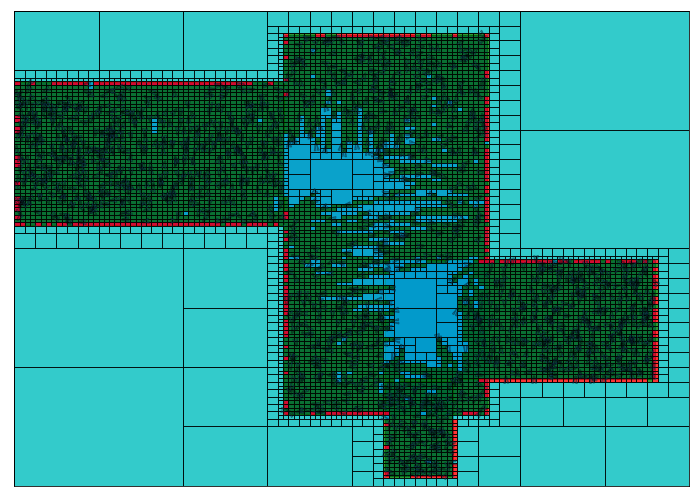
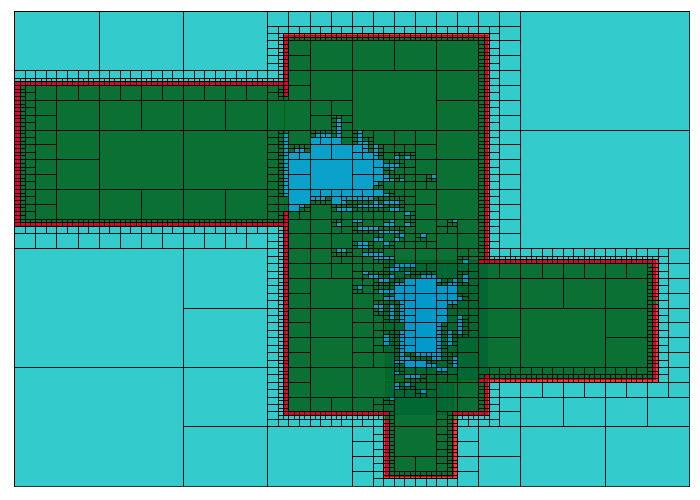
Increase squares

Changed region(s): [[0.0, 0.06, 0.96, 0.96]]

diff --git a/quadtree.py b/quadtree.py
@@ -3,6 +3,7 @@
 import numpy as np
 import matplotlib.patches as patches
 
+
 class Point:
     """A point located at (x,y) in 2D space.
 
@@ -21,13 +22,14 @@ class Point:
         return Point(self.x - o.x, self.y - o.y)
 
     def __mul__(self, o):
-        return Point(self.x*o, self.y*o)
+        return Point(self.x * o, self.y * o)
 
     def __truediv__(self, o):
-        return Point(self.x/o, self.y/o)
+        return Point(self.x / o, self.y / o)
 
     def __repr__(self):
         return '{}: {}'.format(str((self.x, self.y)), repr(self.payload))
+
     def __str__(self):
         return 'P({:.2f}, {:.2f})'.format(self.x, self.y)
 
@@ -37,6 +39,7 @@ class Point:
         except AttributeError:
             other_x, other_y = other
         return np.hypot(self.x - other_x, self.y - other_y)
+
 
 class Vector:
     def __init__(self, origin: Point, end_point: Point):
@@ -49,26 +52,13 @@ class Vector:
         # ax.scatter(self.end_point.x, self.end_point.y)
 
     def division(self, quadtree):
-        # point = self.origin
-        # length = self.origin.distance_to(self.end_point)
-        rectangle = quadtree.insert(self.origin, "Free") # origin = free
-        end_rectangle = quadtree.insert(self.end_point, "Occupied") #end-point = occupied
-        while rectangle != end_rectangle:
-            Ax = self.origin.x
-            Ay = self.origin.y
-            Bx = self.end_point.x
-            By = self.end_point.y
-            rX = rectangle.w
-            rY = rectangle.h
-            Cy = By + rY / 2 # this line needs to change
-            Cx = (Bx + ((Ax - Bx) / (Ay - By)) * Cy)
-            point = Point(Cx, Cy) + self.dir*0.001
-            rectangle = quadtree.insert(point, "Free")
-            print("Added ("+str(point.x)+", "+str(point.y)+")")
+        point = self.origin
+        length = self.origin.distance_to(self.end_point)
+        for i in range(0, int(length) - 1):
+            quadtree.insert(point, "Free")
+            point = self.origin + self.dir * i
+        quadtree.insert(self.end_point, "Occupied")
 
-        # for i in range(0, int(length) - 1):
-        #     quadtree.insert(point, "Free")
-        #     point = self.origin + self.dir*i
 
 class Rect:
     """A rectangle centred at (cx, cy) with width w and height h."""
@@ -76,18 +66,18 @@ class Rect:
     def __init__(self, cx, cy, w, h, type=None):
         self.cx, self.cy = cx, cy
         self.w, self.h = w, h
-        self.area = w*h
-        self.west_edge, self.east_edge = cx - w/2, cx + w/2
-        self.north_edge, self.south_edge = cy - h/2, cy + h/2
+        self.area = w * h
+        self.west_edge, self.east_edge = cx - w / 2, cx + w / 2
+        self.north_edge, self.south_edge = cy - h / 2, cy + h / 2
         self.type = type
 
     def __repr__(self):
         return str((self.west_edge, self.east_edge, self.north_edge,
-                self.south_edge))
+                    self.south_edge))
 
     def __str__(self):
         return '({:.2f}, {:.2f}, {:.2f}, {:.2f})'.format(self.west_edge,
-                    self.north_edge, self.east_edge, self.south_edge)
+                                                         self.north_edge, self.east_edge, self.south_edge)
 
     def contains(self, point):
         """Is point (a Point object or (x,y) tuple) inside this Rect?"""
@@ -98,7 +88,7 @@ class Rect:
             point_x, point_y = point
 
         return (point_x >= self.west_edge and
-                point_x <  self.east_edge and
+                point_x < self.east_edge and
                 point_y >= self.north_edge and
                 point_y < self.south_edge)
 
@@ -110,13 +100,13 @@ class Rect:
                     other.south_edge < self.north_edge)
 
     def _get_color(self):
-        if (self.type == None): # Unknown
+        if (self.type == None):  # Unknown
             return 'c'
         elif (self.type == "Free"):
             return 'g'
         elif (self.type == "Occupied"):  # Occupied
             return 'r'
-        elif (self.type == "Divided"): # Divided rect
+        elif (self.type == "Divided"):  # Divided rect
             return 'none'
         else:
             return 'b'
@@ -125,13 +115,15 @@ class Rect:
         x1, y1 = self.west_edge, self.north_edge
         x2, y2 = self.east_edge, self.south_edge
 
-        rect = patches.Rectangle((x1, y1), x2-x1, y2-y1, linewidth=1, edgecolor='k', facecolor=self._get_color(), alpha=0.8)
+        rect = patches.Rectangle((x1, y1), x2 - x1, y2 - y1, linewidth=1, edgecolor='k', facecolor=self._get_color(),
+                                 alpha=0.8)
         # ax.plot([x1,x2,x2,x1,x1],[y1,y1,y2,y2,y1], c=c, lw=lw, **kwargs)
         if self.type == "room":
-            rect = patches.Rectangle((x1, y1), x2-x1, y2-y1, linewidth=2, edgecolor='k', facecolor='none', alpha=1)
+            rect = patches.Rectangle((x1, y1), x2 - x1, y2 - y1, linewidth=2, edgecolor='k', facecolor='none', alpha=1)
         # rect = patches.Rectangle((x1, y1), x2-x1, y2-y1, linewidth=1, edgecolor='k', alpha=0.1)
 
         ax.add_patch(rect)
+
 
 class QuadTree:
     """A class implementing a quadtree."""
@@ -161,8 +153,8 @@ class QuadTree:
         if not self.divided:
             return s
         return s + '\n' + '\n'.join([
-                sp + 'nw: ' + str(self.nw), sp + 'ne: ' + str(self.ne),
-                sp + 'se: ' + str(self.se), sp + 'sw: ' + str(self.sw)])
+            sp + 'nw: ' + str(self.nw), sp + 'ne: ' + str(self.ne),
+            sp + 'se: ' + str(self.se), sp + 'sw: ' + str(self.sw)])
 
     def divide(self):
         """Divide (branch) this node by spawning four children nodes."""
@@ -172,30 +164,34 @@ class QuadTree:
         # The boundaries of the four children nodes are "northwest",
         # "northeast", "southeast" and "southwest" quadrants within the
         # boundary of the current node.
-        self.nw = QuadTree(Rect(cx - w/2, cy - h/2, w, h),
-                                    self.max_points, self.depth + 1)
-        self.ne = QuadTree(Rect(cx + w/2, cy - h/2, w, h),
-                                    self.max_points, self.depth + 1)
-        self.se = QuadTree(Rect(cx + w/2, cy + h/2, w, h),
-                                    self.max_points, self.depth + 1)
-        self.sw = QuadTree(Rect(cx - w/2, cy + h/2, w, h),
-                                    self.max_points, self.depth + 1)
+        self.nw = QuadTree(Rect(cx - w / 2, cy - h / 2, w, h),
+                           self.max_points, self.depth + 1)
+        self.ne = QuadTree(Rect(cx + w / 2, cy - h / 2, w, h),
+                           self.max_points, self.depth + 1)
+        self.se = QuadTree(Rect(cx + w / 2, cy + h / 2, w, h),
+                           self.max_points, self.depth + 1)
+        self.sw = QuadTree(Rect(cx - w / 2, cy + h / 2, w, h),
+                           self.max_points, self.depth + 1)
         self.divided = True
 
     def insert(self, point, type="Occupied"):
         """Try to insert Point point into this QuadTree."""
 
-        if self.boundary.type == type:
-            return self.boundary
-
         if not self.boundary.contains(point):
             # The point does not lie inside boundary: bail.
             return False
-        if len(self.points) < self.max_points or self.depth == 10:
+
+        # Don't add a new point to this rectangle
+        if self.boundary.type == type:
+            return True
+
+        if len(self.points) < self.max_points or self.depth == 7:
             # There's room for our point without dividing the QuadTree.
             self.points.append(point)
-            self.boundary.type = type
-            return self.boundary
+
+            # Don't overwrite an occupied cell with a free cell
+            if self.boundary.type != "Occupied": self.boundary.type = type
+            return True
 
         # No room: divide if necessary, then try the sub-quads.
         if not self.divided:
@@ -232,7 +228,6 @@ class QuadTree:
                 boundary.type = "Free"
         return found_points
 
-
     def query_circle(self, boundary, centre, radius, found_points):
         """Find the points in the quadtree that lie within radius of centre.
 
@@ -265,16 +260,30 @@ class QuadTree:
         """Find the points in the quadtree that lie within radius of centre."""
 
         # First find the square that bounds the search circle as a Rect object.
-        boundary = Rect(*centre, 2*radius, 2*radius)
+        boundary = Rect(*centre, 2 * radius, 2 * radius)
         return self.query_circle(boundary, centre, radius, found_points)
 
+    def increase_squares(self):
+        if self.divided:
+            # Recursion, first goes to deepest layer and then keeps going up
+
+            # Can't immediately do if statement: Will result in early exit
+            types = {self.nw.increase_squares(), self.ne.increase_squares(),
+                     self.se.increase_squares(), self.sw.increase_squares()}
+            if len(types) == 1:
+                self.boundary.type = types.pop()
+
+                if self.boundary.type != "Divided": self.divided = False
+        # Check if all squares have same type,
+        # Check if all squares have the same type (not divided)
+        return self.boundary.type
 
     def __len__(self):
         """Return the number of points in the quadtree."""
 
         npoints = len(self.points)
         if self.divided:
-            npoints += len(self.nw)+len(self.ne)+len(self.se)+len(self.sw)
+            npoints += len(self.nw) + len(self.ne) + len(self.se) + len(self.sw)
         return npoints
 
     def draw(self, ax):

diff --git a/case1.py b/case1.py
@@ -10,7 +10,7 @@ random.seed(123)
 random.random()
 width, height = 600, 400
 
-N = 20
+N = 50
 coords = np.random.randn(N, 2) * height/3 + (width/2, height/2)
 # points = [Point(*coord) for coord in coords]
 
@@ -80,14 +80,19 @@ for area in inside_areas:
 
 
 domain = Rect(width/2, height/2, width, height, type="divided")
-qtree = QuadTree(domain, 0, 3)
+qtree = QuadTree(domain, 0, 0)
 # for point in points:
 #     qtree.insert(point)
 
+print(f'Inserting {len(vectors)} vectors...')
 for vec in vectors:
         vec.division(qtree)
-
 print('Number of points in the domain =', len(qtree))
+
+print('Increasing squares to higher depth...')
+qtree.increase_squares()
+
+print('Plotting...')
 plt.clf()
 fig = plt.figure(figsize=(700/DPI, 500/DPI), dpi=DPI)
 ax = plt.subplot()
@@ -104,17 +109,17 @@ for area in inside_areas:
 
 qtree.draw(ax)
 # Draw graph
-for vector in vectors:
-    vector.draw(ax)
+# for vector in vectors:
+#     vector.draw(ax)
 
-ax.scatter([p.x for p in points], [p.y for p in points], s=1, alpha=0.05)
+# ax.scatter([p.x for p in points], [p.y for p in points], s=1, alpha=0.05)
 ax.set_xticks([])
 ax.set_yticks([])
 
-region = Rect(width/2, height/2, width, height)
-found_points = []
-qtree.query(region, found_points)
-print('Number of found points =', len(found_points))
+# region = Rect(width/2, height/2, width, height)
+# found_points = []
+# qtree.query(region, found_points)
+# print('Number of found points =', len(found_points))
 #
 # ax.scatter([p.x for p in found_points], [p.y for p in found_points],
 #            facecolors='none', edgecolors='r', s=32)
